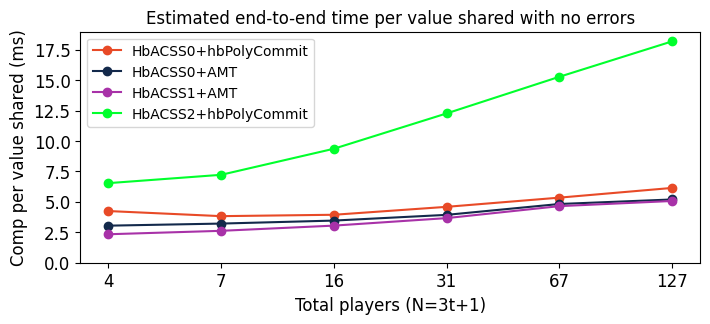
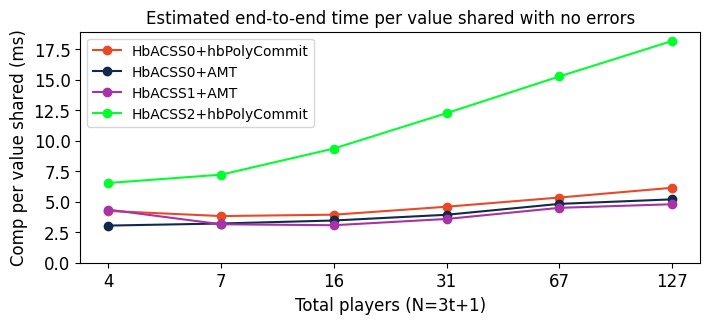
Update graphs.

diff --git a/polycommit_loglin_gengraphs.py b/polycommit_loglin_gengraphs.py
@@ -408,10 +408,10 @@ for entry in logbenchmarks:
 
 
 # Clear the data
-hbacss1_dummy_pcl_all_correct = []
-hbacss1_dummy_pcl_max_faulty_shares = []
+hbacss1_dummy_amt_all_correct = []
+hbacss1_dummy_amt_max_faulty_shares = []
 # Loading the data for hbacss1 with batch size t*(t+1)
-with open("DataWinterfell/Linux-CPython-3.7-64bit/0003_hbacss1_dummy_pcl.json", "r") as file:
+with open("DataWinterfell/Linux-CPython-3.7-64bit/0006_hbacss1_dummy_amt.json", "r") as file:
     logdata = file.read().replace("\n", "")
 logbenchmarks = json.loads(logdata)["benchmarks"]
 for entry in logbenchmarks:
@@ -422,10 +422,29 @@ for entry in logbenchmarks:
     orig_batched_stddev = entry["stats"]["stddev"]
     dict = {"t": t, "mean": mean,
             "per_party_per_proof_mean": per_party_per_proof_mean, "orig_batched_stddev": orig_batched_stddev}
-    if entry["name"].startswith("test_hbacss1_pcl_all_correct"):
-        hbacss1_dummy_pcl_all_correct.append(dict)
-    if entry["name"].startswith("test_hbacss1_pcl_max_faulty_shares"):
-        hbacss1_dummy_pcl_max_faulty_shares.append(dict)
+    if entry["name"].startswith("test_hbacss1_amt_all_correct"):
+        hbacss1_dummy_amt_all_correct.append(dict)
+    if entry["name"].startswith("test_hbacss1_amt_max_faulty_shares"):
+        hbacss1_dummy_amt_max_faulty_shares.append(dict)
+
+
+# Loading the interpolation for share recovery
+hbacss1_amt_interpolation = []
+# The time is for 2t interpolations for commits and 2t interpolation for proofs
+with open("DataWinterfell/Linux-CPython-3.7-64bit/0007_amt_interpolation.json", "r") as file:
+    logdata = file.read().replace("\n", "")
+logbenchmarks = json.loads(logdata)["benchmarks"]
+for entry in logbenchmarks:
+    t = entry["params"]["t"]
+    mean = entry["stats"]["mean"]
+    per_interpolation_mean = mean / (2*t)
+    per_interpolation_mean *= 1000.0
+    orig_batched_stddev = entry["stats"]["stddev"]
+    dict = {"t": t, "mean": mean,
+            "per_interpolation_mean":per_interpolation_mean,
+            "orig_batched_stddev": orig_batched_stddev}
+    if entry["name"].startswith("test_amt_commit_and_proof_interpolation"):
+        hbacss1_amt_interpolation.append(dict)
 
 
 td_points_c0 = []
@@ -435,7 +454,7 @@ for i in hbacss0_dummy_pcl_all_correct:
     if i['batch_multiple'] == fixed_multuple and i['t'] in t_extracted:
         td_points_c0.append(
             (i['per_party_per_proof_mean'], i['t']))
-for i in hbacss1_dummy_pcl_all_correct:
+for i in hbacss1_dummy_amt_all_correct:
     if i['t'] in t_extracted:
         td_points_c1.append(
             (i['per_party_per_proof_mean'], i['t']))
@@ -488,7 +507,7 @@ for i in hbacss0_dummy_pcl_max_faulty_shares:
     if i['batch_multiple'] == fixed_multuple and i['t'] in t_extracted:
         td_points_c0.append(
             (i['per_party_per_proof_mean'], i['t']))
-for i in hbacss1_dummy_pcl_max_faulty_shares:
+for i in hbacss1_dummy_amt_max_faulty_shares:
     if i['t'] in t_extracted:
         td_points_c1.append(
             (i['per_party_per_proof_mean'], i['t']))
@@ -496,10 +515,18 @@ for i in hbacss2_dummy_pcl_max_faulty_shares:
     if i['t'] in t_extracted:
         td_points_c2.append(
             (i['per_party_per_proof_mean'], i['t']))
+
+interpolation_overhead = []
+for i in hbacss1_amt_interpolation:
+    if i['t'] in t_extracted:
+        interpolation_overhead.append(
+            (i['per_interpolation_mean'], i['t']))
+
 # Sorting
 td_points_c0 = sorted(td_points_c0, key=lambda x: x[1])
 td_points_c1 = sorted(td_points_c1, key=lambda x: x[1])
 td_points_c2 = sorted(td_points_c2, key=lambda x: x[1])
+interpolation_overhead = sorted(interpolation_overhead, key=lambda x: x[1])
 
 td_per_party_per_proof_mean_c0 = []
 td_per_party_per_proof_mean_c1 = []
@@ -526,7 +553,7 @@ for i, elem in enumerate(td_points_c0):
     index = amt_plotting_n_arr.index(str(3 * t + 1))
     td_per_party_per_proof_mean_c2.append(
         plotting_deal_arr[index] + amt_plotting_ver_arr[index] + amt_plotting_ver_arr[index] * ((2 * t + 1) / n) + \
-            ((t + 1) / n) *amt_plotting_ver_arr[index] + td_points_c1[i][0])
+            ((t + 1) / n) *amt_plotting_ver_arr[index] + td_points_c1[i][0] + interpolation_overhead[i][0] *(2*t)/(t+1))
 
     # Calculating hbacss2 + hbPolyCommit
     index = amt_plotting_n_arr.index(str(3 * t + 1))
